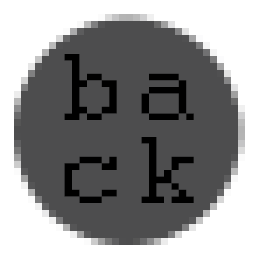
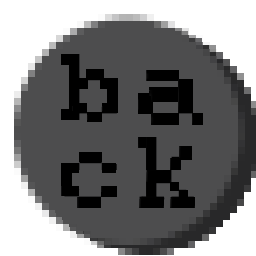
change Button image

diff --git a/X10_Project/Classes/FileStuff.h b/X10_Project/Classes/FileStuff.h
@@ -32,14 +32,20 @@ namespace FileStuff
 	const string STAR_SAD = "res/target/brick.png";
 	const string BRICK_DESTRUCT_ANI = "brick_destruct";
 
-	//buttons
-	const string CLOSE_BUTTON = "res/ui/closeButton.png";
+	//board
 	const string SUCCESS_BOARD = "res/ui/success.png";
 	const string FAIL_BOARD = "res/ui/fail.png";
-	const string PAUSEBUTTON = "res/ui/backButton.png";
+
+	//buttons
+	const string PAUSEBUTTON = "res/ui/BackButton.png";
 	const string NEXTBUTTON = "res/ui/NextButton.png";
 	const string RETRYBUTTON = "res/ui/RetryButton.png";
 	const string BACKBUTTON = "res/ui/BackButton.png";
+	const string PAUSEBUTTON_CLICKED = "res/ui/BackButton_clicked.png";
+	const string NEXTBUTTON_CLICKED = "res/ui/NextButton_clicked.png";
+	const string RETRYBUTTON_CLICKED = "res/ui/RetryButton_clicked.png";
+	const string BACKBUTTON_CLICKED = "res/ui/BackButton_clicked.png";
+	const string CLOSE_BUTTON = "res/ui/closeButton.png";
 
 	//bullet
 	const string NORMAL_BULLET = "res/ui/normal_bullet.png";

diff --git a/X10_Project/Classes/StageScene.cpp b/X10_Project/Classes/StageScene.cpp
@@ -293,9 +293,9 @@ MenuItemImage* StageScene::MoveCharacter(MenuItemImage* character, int stageNum)
 void StageScene::EndingEvent(float dt)
 {
 	Sequence* seq = Sequence::create(
-// 		DelayTime::create(2.5f),
-// 		CallFuncN::create(CC_CALLBACK_0(StageScene::ShowBlinkingLight, this)),
-// 		DelayTime::create(4.0f),
+ 		DelayTime::create(2.5f),
+ 		CallFuncN::create(CC_CALLBACK_0(StageScene::ShowBlinkingLight, this)),
+ 		DelayTime::create(4.0f),
  		CallFuncN::create(CC_CALLBACK_0(StageScene::ShowDeadbody, this)),
  		DelayTime::create(3.0f),
 		CallFuncN::create(CC_CALLBACK_0(StageScene::ChangeToEndingScene, this)),
@@ -361,7 +361,7 @@ MenuItemImage* StageScene::MakeBackButton()
 {
 	MenuItemImage* button = MenuItemImage::create(
 		FileStuff::PAUSEBUTTON,
-		FileStuff::PAUSEBUTTON,
+		FileStuff::PAUSEBUTTON_CLICKED,
 		CC_CALLBACK_1(StageScene::ChangeToMainScene, this));
 
 	Size buttonSize = button->getContentSize();
